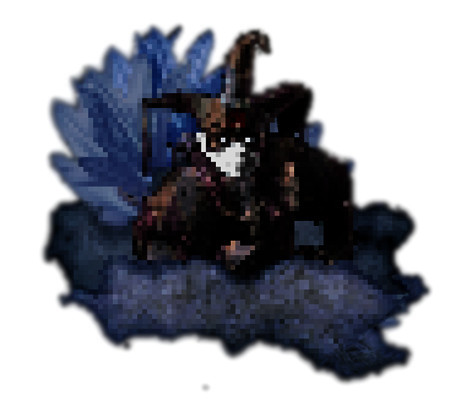
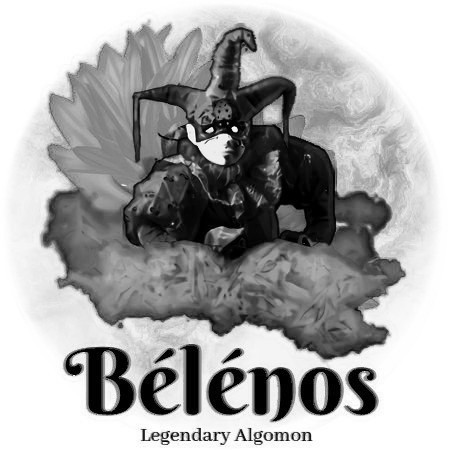
belenos is here

diff --git a/almanac.html b/almanac.html
@@ -22,7 +22,7 @@
   var userAddressId = "";
   var algomonOwned = [];
   var almanac = {	265533459:"MissalGo",265555409:"Antares",265564701:"Naos",265573153:"Pipoltr",
-  266625413:"Intan",266779424:"Liesma",	267140826:"Gumala", 	267364802:"Procyon",269353009:"Karaka",	269368230:"Adhafera", 273652384:"Timir",273656502:"Yildun",273659322:"Uruk",276489196:"Unukalhai",276493753:"Fafnir",276495735:"Tapecue"};
+  266625413:"Intan",266779424:"Liesma",	267140826:"Gumala", 	267364802:"Procyon",269353009:"Karaka",	269368230:"Adhafera", 273652384:"Timir",273656502:"Yildun",273659322:"Uruk",276489196:"Unukalhai",276493753:"Fafnir",276495735:"Tapecue",276954563:"Bélénos"};
 
   var rares = ["Timir", "Yildun"];
   var epic = ["Uruk","Fafnir"];
@@ -482,7 +482,7 @@ function setupAlmanac(){
       <div class="contentwrapper white">
         <center><h3>Special & Ultrarare</h3>
         <card>
-          <div class="container" id="MissalGo" style="background:url('img/almanac0.jpg');background-size:contain">
+          <div class="container" id="MissalGo">
         <div class="preview" >
             <div class="row" >
                 <p class="rarity unique">Unique</p>
@@ -504,7 +504,7 @@ function setupAlmanac(){
         </div> </div>
         </card>  
         <card>
-          <div class="container comingsoon" id="Bélénos" style="background:url('img/almanac1x.jpg');background-size:contain;">
+          <div class="container" id="Bélénos"  >
             <div class="preview" >
             <div class="row" >
                 <p class="rarity legendary">Legendary</p>
@@ -516,11 +516,11 @@ function setupAlmanac(){
         <div class="about" id="about">
             <i class="fas fa-info-circle infoicon"></i>
             <div class="details">
-                <p class="name">???</p>
+                <p class="name">Bélénos</p>
                 <p class="subheading">The Jester</p>
                 <div class="entry">
                   <p><b>Name meaning: </b> "The Fair Shining God"</p>
-                 <p>An incredibly powerful creature that is known to summon clouds and thunder when enraged. It is fond of small animals and insects, particularly ladybugs, but it's easily annoyed by humans.</p>
+                 <p>An incredibly powerful creature that is known to summon clouds and thunder when enraged. It is very fond of small animals and insects, particularly ladybugs, while it is easily annoyed by humans.</p>
                 </div>
             </div>
         </div> </div>
@@ -682,6 +682,13 @@ function setupAlmanac(){
                   <td><a href="https://algoexplorer.io/asset/265533459">265533459</a></td>
                   <td><unique>1 minted</unique></td>
                   <td>Not for sale</td>
+                </tr>
+                  <tr>
+                  <td><b>1X# Bélénos</b></td>
+                  <td>MON0MIS</td>
+                  <td><a href="https://algoexplorer.io/asset/276954563">276954563</a></td>
+                  <td><unique>3 minted</unique></td>
+                  <td><a href="https://www.randgallery.com/algo-hodlers/?address=276954563">See holders</a></td>
             </tr>
           </tbody>
         </table>

diff --git a/almanac.css b/almanac.css
@@ -294,7 +294,14 @@ badge .badgeinfo {
 badge:hover .badgeinfo {
   visibility: visible;
 }
-
+#MissalGo{
+  background:url('img/almanac0.jpg');background-size:contain;
+}#MissalGo:hover{  background:url("img/missalgo.gif");background-size:contain;
+}
+#Bélénos{
+  background:url('img/almanac1x.jpg');background-size:contain;
+}#Bélénos:hover{  background:url("img/bélénos.gif");background-size:contain;
+}
 
 
 @media screen and (max-width: 670px) {
